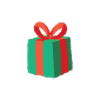
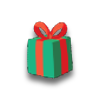
Updated readme and image

Changed region(s): [[0.24, 0.21, 0.75, 0.87]]

diff --git a/README.md b/README.md
@@ -27,3 +27,9 @@
 ```lua
     ['giftbox'] = { amount = 1, item = 'giftbox' },
 ```
+
+## qb-inventory > shared > items.lua
+```lua
+	-- Starter Gift Box
+	['giftbox']             		= {['name'] = 'giftbox',                		['label'] = 'Starter Gift Box',       	['weight'] = 0,         ['type'] = 'item',      ['image'] = 'giftbox.png',     		    ['unique'] = true,      ['useable'] = true,     ['shouldClose'] = true,   ['combinable'] = nil,   ['description'] = 'A Present with various items'},
+```
